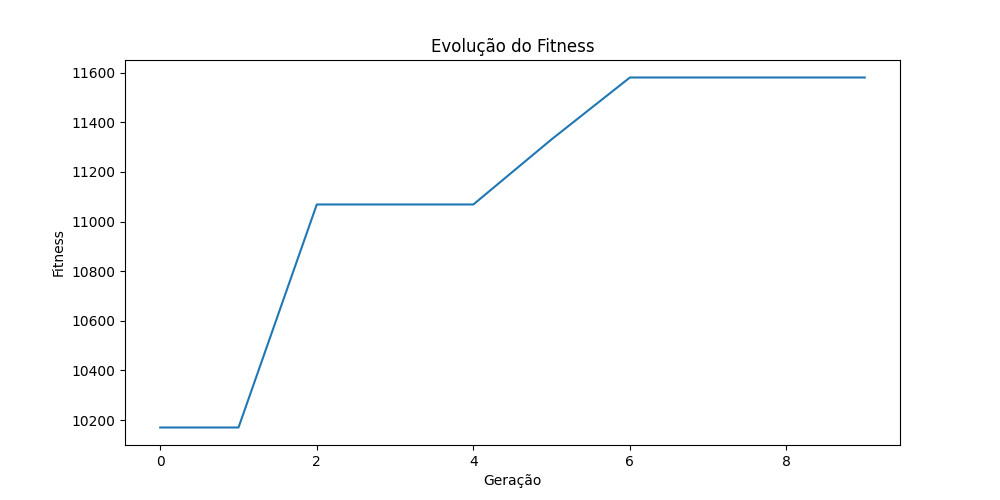
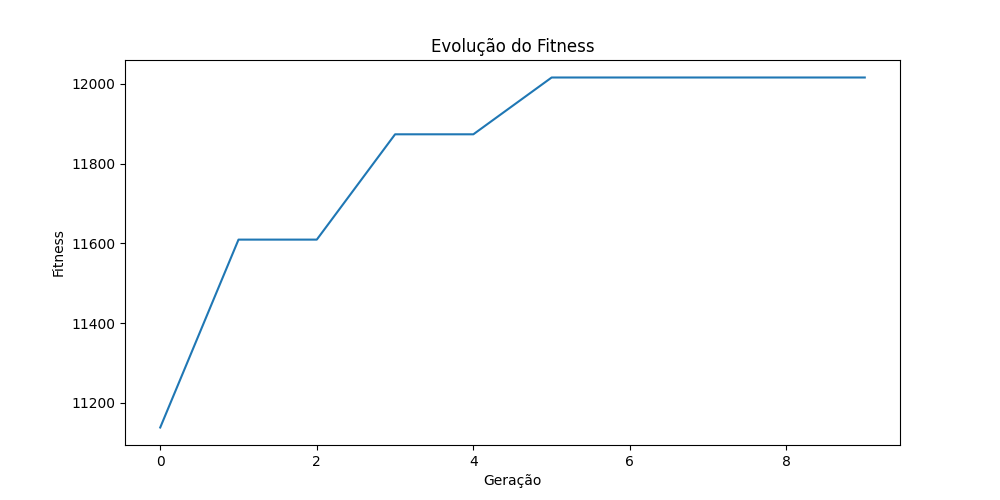
algumas alterações no fitness

diff --git a/robo_exercicio.py b/robo_exercicio.py
@@ -758,9 +758,9 @@ class ProgramacaoGenetica:
                 
                 # Calcular fitness
                 fitness_tentativa = (
-                    robo.recursos_coletados * 150 +  # Aumentado o peso dos recursos
-                    robo.distancia_percorrida * 0.1 -  # Aumentado o peso da distância
-                    robo.colisoes * 30 -  # Aumentada a penalidade por colisões
+                    robo.recursos_coletados * 100 +  # Aumentado o peso dos recursos
+                    robo.distancia_percorrida * 0.05 -  # Aumentado o peso da distância
+                    robo.colisoes * 50 -  # Aumentada a penalidade por colisões
                     (100 - robo.energia) * 0.5 +  # Reduzida a penalidade por energia
                     (800 if robo.meta_atingida else 0) +  # Bônus por atingir meta
                     (15 * (ambiente.max_tempo - ambiente.tempo) if robo.meta_atingida else 0)  # Bônus por eficiência temporal
